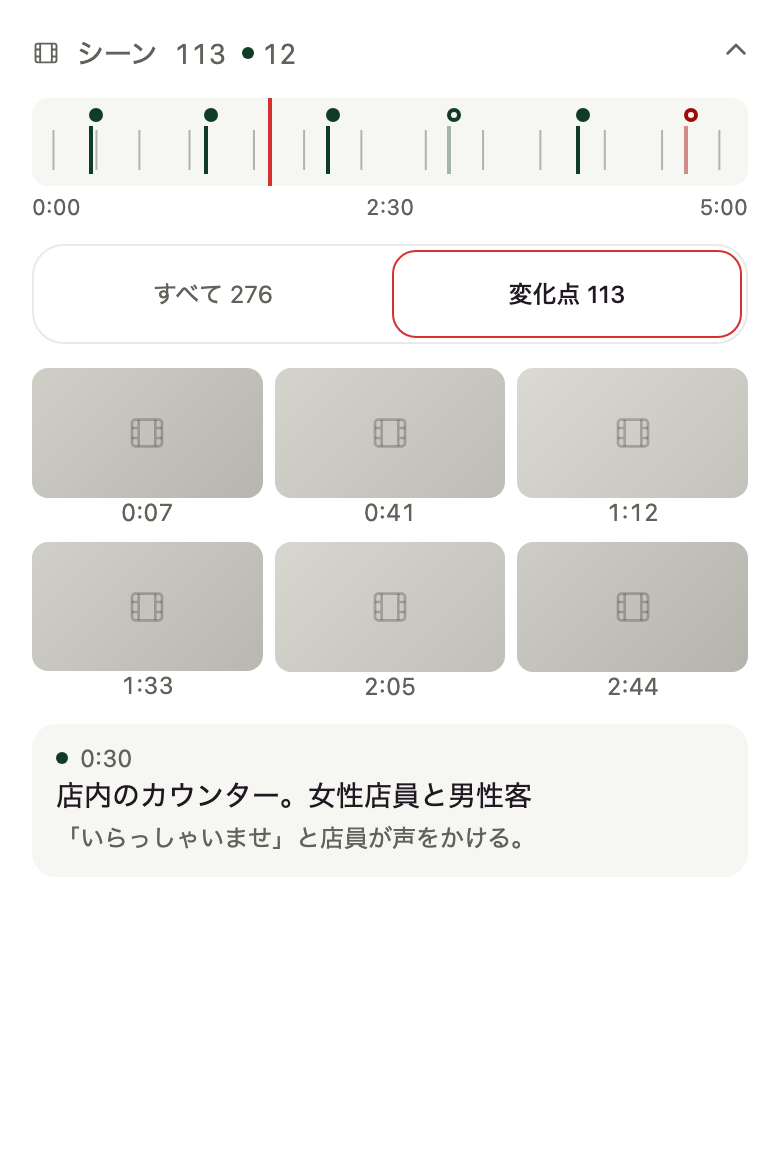
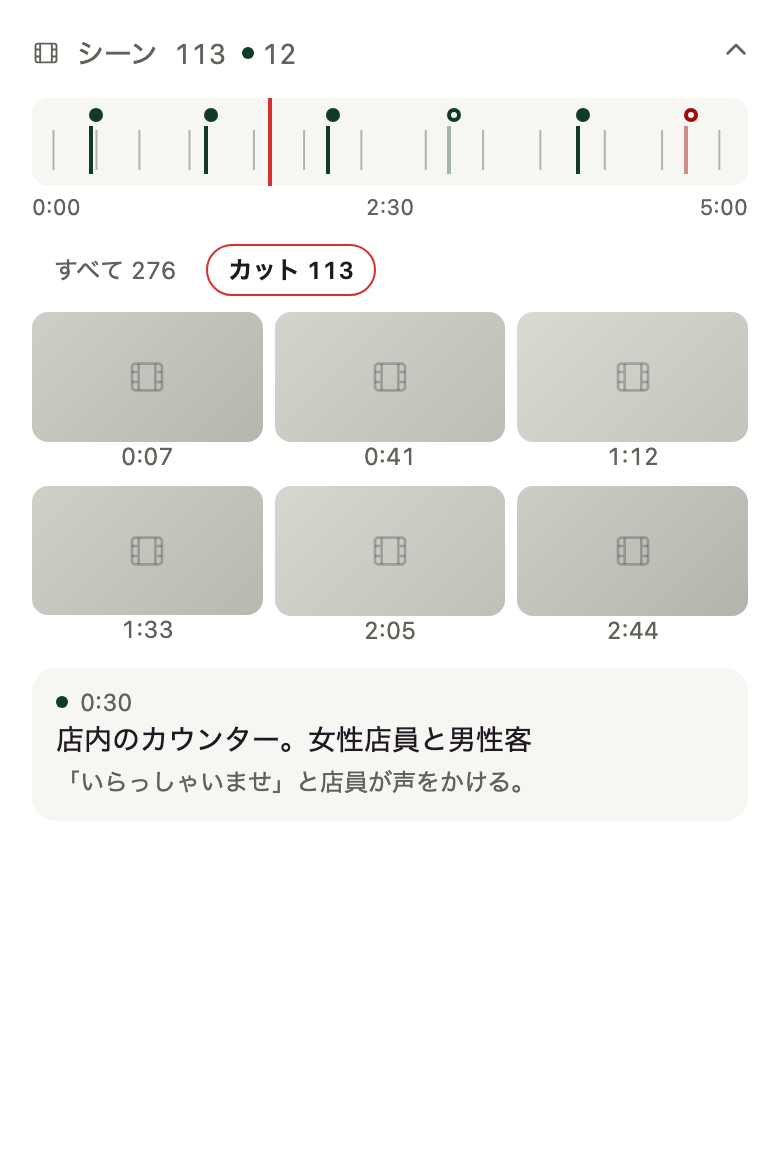
docs: redraw the Scenes frame switch as chips labelled Cuts

Changed region(s): [[0.0308, 0.2172, 0.9846, 0.7448]]

diff --git a/docs/process/reviews/feature-scenes-change-points/design/Section400Changes.dc.html b/docs/process/reviews/feature-scenes-change-points/design/Section400Changes.dc.html
@@ -2,7 +2,7 @@
 <html lang="ja">
 <head>
 <meta charset="utf-8">
-<title>Scenes — 変化点（400 px、変化点 113）</title>
+<title>Scenes — カット（400 px、カット 113）</title>
 <style>body{margin:0}</style>
 </head>
 <body>
@@ -40,9 +40,9 @@
   </div>
   <div style="display:flex;justify-content:space-between;font-size:11px;color:#62625b;font-variant-numeric:tabular-nums;margin-bottom:12px"><span>0:00</span><span>2:30</span><span>5:00</span></div>
 
-  <div role="group" aria-label="表示するフレーム" style="display:flex;width:100%;gap:2px;border:1px solid rgba(145,145,140,0.2);border-radius:16px;padding:2px;box-sizing:border-box;margin-bottom:14px">
-    <button style="flex:1;min-width:0;height:32px;border-radius:12px;border:1px solid transparent;background:transparent;color:#62625b;font-size:12px;font-family:inherit;display:flex;align-items:center;justify-content:center"><span style="overflow:hidden;text-overflow:ellipsis;white-space:nowrap">すべて 276</span></button>
-    <button style="flex:1;min-width:0;height:32px;border-radius:12px;border:1px solid #d63031;background:transparent;color:#211922;font-size:12px;font-weight:500;font-family:inherit;display:flex;align-items:center;justify-content:center"><span style="overflow:hidden;text-overflow:ellipsis;white-space:nowrap">変化点 113</span></button>
+  <div role="group" aria-label="表示するフレーム" style="display:flex;gap:4px;margin-bottom:10px">
+    <button aria-pressed="false" style="border-radius:9999px;padding:4px 10px;background:transparent;font-size:12px;line-height:16px;font-family:inherit;white-space:nowrap;font-variant-numeric:tabular-nums;border:1px solid transparent;color:#62625b">すべて 276</button>
+    <button aria-pressed="true" style="border-radius:9999px;padding:4px 10px;background:transparent;font-size:12px;line-height:16px;font-family:inherit;white-space:nowrap;font-variant-numeric:tabular-nums;border:1px solid #d63031;color:#211922;font-weight:600">カット 113</button>
   </div>
 
   <div style="display:grid;grid-template-columns:repeat(3,minmax(0,1fr));gap:8px 8px">

diff --git a/docs/process/reviews/feature-scenes-change-points/design/Phone390Changes.dc.html b/docs/process/reviews/feature-scenes-change-points/design/Phone390Changes.dc.html
@@ -2,7 +2,7 @@
 <html lang="ja">
 <head>
 <meta charset="utf-8">
-<title>Scenes — 変化点（358 px、電話）</title>
+<title>Scenes — カット（358 px、電話）</title>
 <style>body{margin:0}</style>
 </head>
 <body>
@@ -40,9 +40,9 @@
   </div>
   <div style="display:flex;justify-content:space-between;font-size:11px;color:#62625b;font-variant-numeric:tabular-nums;margin-bottom:12px"><span>0:00</span><span>2:30</span><span>5:00</span></div>
 
-  <div role="group" aria-label="表示するフレーム" style="display:flex;width:100%;gap:2px;border:1px solid rgba(145,145,140,0.2);border-radius:16px;padding:2px;box-sizing:border-box;margin-bottom:12px">
-    <button style="flex:1;min-width:0;height:44px;border-radius:12px;border:1px solid transparent;background:transparent;color:#62625b;font-size:12px;font-family:inherit;display:flex;align-items:center;justify-content:center"><span style="overflow:hidden;text-overflow:ellipsis;white-space:nowrap">すべて 276</span></button>
-    <button style="flex:1;min-width:0;height:44px;border-radius:12px;border:1px solid #d63031;background:transparent;color:#211922;font-size:12px;font-weight:500;font-family:inherit;display:flex;align-items:center;justify-content:center"><span style="overflow:hidden;text-overflow:ellipsis;white-space:nowrap">変化点 113</span></button>
+  <div role="group" aria-label="表示するフレーム" style="display:flex;gap:4px;margin-bottom:8px">
+    <button aria-pressed="false" style="border-radius:9999px;padding:4px 10px;background:transparent;font-size:12px;line-height:16px;font-family:inherit;white-space:nowrap;font-variant-numeric:tabular-nums;border:1px solid transparent;color:#62625b">すべて 276</button>
+    <button aria-pressed="true" style="border-radius:9999px;padding:4px 10px;background:transparent;font-size:12px;line-height:16px;font-family:inherit;white-space:nowrap;font-variant-numeric:tabular-nums;border:1px solid #d63031;color:#211922;font-weight:600">カット 113</button>
   </div>
 
   <div style="display:grid;grid-template-columns:repeat(3,minmax(0,1fr));gap:8px 6px">

diff --git a/docs/process/reviews/feature-scenes-change-points/design/Section400All.dc.html b/docs/process/reviews/feature-scenes-change-points/design/Section400All.dc.html
@@ -40,9 +40,9 @@
   </div>
   <div style="display:flex;justify-content:space-between;font-size:11px;color:#62625b;font-variant-numeric:tabular-nums;margin-bottom:12px"><span>0:00</span><span>2:30</span><span>5:00</span></div>
 
-  <div role="group" aria-label="表示するフレーム" style="display:flex;width:100%;gap:2px;border:1px solid rgba(145,145,140,0.2);border-radius:16px;padding:2px;box-sizing:border-box;margin-bottom:14px">
-    <button style="flex:1;min-width:0;height:32px;border-radius:12px;border:1px solid #d63031;background:transparent;color:#211922;font-size:12px;font-weight:500;font-family:inherit;display:flex;align-items:center;justify-content:center"><span style="overflow:hidden;text-overflow:ellipsis;white-space:nowrap">すべて 276</span></button>
-    <button style="flex:1;min-width:0;height:32px;border-radius:12px;border:1px solid transparent;background:transparent;color:#62625b;font-size:12px;font-family:inherit;display:flex;align-items:center;justify-content:center"><span style="overflow:hidden;text-overflow:ellipsis;white-space:nowrap">変化点 113</span></button>
+  <div role="group" aria-label="表示するフレーム" style="display:flex;gap:4px;margin-bottom:10px">
+    <button aria-pressed="true" style="border-radius:9999px;padding:4px 10px;background:transparent;font-size:12px;line-height:16px;font-family:inherit;white-space:nowrap;font-variant-numeric:tabular-nums;border:1px solid #d63031;color:#211922;font-weight:600">すべて 276</button>
+    <button aria-pressed="false" style="border-radius:9999px;padding:4px 10px;background:transparent;font-size:12px;line-height:16px;font-family:inherit;white-space:nowrap;font-variant-numeric:tabular-nums;border:1px solid transparent;color:#62625b">カット 113</button>
   </div>
 
   <div style="display:grid;grid-template-columns:repeat(3,minmax(0,1fr));gap:8px 8px">

diff --git a/docs/process/reviews/feature-scenes-change-points/design/Section400NoChanges.dc.html b/docs/process/reviews/feature-scenes-change-points/design/Section400NoChanges.dc.html
@@ -2,7 +2,7 @@
 <html lang="ja">
 <head>
 <meta charset="utf-8">
-<title>Scenes — 変化点なし（400 px、スイッチなし）</title>
+<title>Scenes — カットなし（400 px、スイッチなし）</title>
 <style>body{margin:0}</style>
 </head>
 <body>

diff --git a/docs/specs/scenes-change-points.md b/docs/specs/scenes-change-points.md
@@ -18,7 +18,7 @@ change, as `clip_change` embeddings. The Scenes section never shows them: its gr
 the CLIP candidate frames (ffmpeg scene detection plus the 30 s interval fill), so a cut
 is mixed in with filler frames and cannot be picked out.
 
-This adds a two-option switch above the grid, 「すべて」 / 「変化点」, which swaps the
+This adds a two-option switch above the grid, 「すべて」 / 「カット」, which swaps the
 grid between the candidate frames and the stored change frames. It needs no model and no
 Visual Index run, so it works as soon as the video has been scanned — before any scene
 is labelled.
@@ -32,13 +32,12 @@ is labelled.
    native video's availability, and again on every expand and every host show. The
    answer now carries both lists: `timestamps` (candidate frames) and `changes` (change
    frames).
-3. When `changes` holds at least one item, the section draws a full-width
-   `SegmentedControl` between the ruler and the grid, with 「すべて {n}」 and
-   「変化点 {m}」, 「すべて」 selected.
+3. When `changes` holds at least one item, the section draws a row of two chips between
+   the ruler and the grid, 「すべて {n}」 and 「カット {m}」, with 「すべて」 selected.
 4. The grid, the ruler's tick marks and the picture window show the selected list. The
    scene marks, the scene card, the track length, the playhead and seeking are
    unchanged.
-5. Pressing the other segment swaps the list in place. The browse point and the playback
+5. Pressing the other chip swaps the list in place. The browse point and the playback
    position are kept, so the window re-anchors to the row of the new list at or before
    that point. No `clip-timestamps` or `visual-index` request is sent; the tiles of the
    new window ask for their pictures as any tile does.
@@ -49,7 +48,7 @@ is labelled.
 ### 2. Failure cases
 
 - `changes` is empty or absent: no switch is drawn, the grid shows the candidate frames,
-  and a retained 「変化点」 selection falls back to 「すべて」.
+  and a retained 「カット」 selection falls back to 「すべて」.
 - The `clip-timestamps` request fails, or `timestamps` is empty: unchanged from today —
   the section reports nothing, is not drawn, and its host button is unavailable. The
   switch never makes the section available on its own, so a file with change frames and
@@ -67,16 +66,16 @@ is labelled.
 | State | What is drawn |
 |---|---|
 | No change frames | No switch; grid, ruler ticks and window = candidate frames |
-| Switch, 「すべて」 selected | Grid, ruler ticks and window = candidate frames; 「変化点」 unselected |
-| Switch, 「変化点」 selected | Grid, ruler ticks and window = change frames; 「すべて」 unselected |
+| Switch, 「すべて」 selected | Grid, ruler ticks and window = candidate frames; 「カット」 unselected |
+| Switch, 「カット」 selected | Grid, ruler ticks and window = change frames; 「すべて」 unselected |
 | Section collapsed, then expanded | The mode is kept when the new answer still has changes; otherwise 「すべて」 |
 | Host hides and shows the panel | Same as expand: kept while the new answer still has changes, otherwise 「すべて」 |
 | File changed | The mode returns to 「すべて」 |
 | Request in flight | No switch (no answer yet); the loading skeleton as today |
-| Response without changes while 「変化点」 is selected | No switch; grid = candidate frames; the selection is reset to 「すべて」 |
-| Available through the Visual Index with `m > 0` and no candidate frames | The switch is drawn; 「すべて」 shows no tiles and 「変化点」 shows the cuts |
+| Response without changes while 「カット」 is selected | No switch; grid = candidate frames; the selection is reset to 「すべて」 |
+| Available through the Visual Index with `m > 0` and no candidate frames | The switch is drawn; 「すべて」 shows no tiles and 「カット」 shows the cuts |
 
-Allowed transitions: a segment press, collapse/expand, host hide/show, a file change, and
+Allowed transitions: a chip press, collapse/expand, host hide/show, a file change, and
 a response arriving. Not allowed: a mode without a response, and a switch on a section
 that is not drawn at all (no candidates and no Visual Index).
 
@@ -86,7 +85,7 @@ that is not drawn at all (no candidates and no Visual Index).
   `vector_table = 'vec_clip_change'` for the file, ascending by `timestamp_start`,
   through the existing `clip-timestamps` route. No new route and no new request.
 - Read: `indexed_files`, as the route already does for the drive check.
-- Read/write: the frame cache. Selecting 「変化点」 draws tiles whose times were never
+- Read/write: the frame cache. Selecting 「カット」 draws tiles whose times were never
   requested as candidate tiles, so the new window's tiles ask
   `GET /files/{file_id}/frame?t=<start>` (a `.loft`: `/scene-tile`), and a native video's
   miss extracts with ffmpeg and writes `intelligence_data_dir/frames/{file_id}/{ms}.webp`.
@@ -129,11 +128,16 @@ mismatch). The added field needs no check of its own.
 
 ### 9. User-visible behavior
 
-- The switch is the core `SegmentedControl` from `@/components/SegmentedControl`, full
-  width, placed directly below the ruler and above the grid. Its selected segment has an
-  accent border and no fill; the other is muted; labels truncate rather than wrap.
-- Segment labels: 「すべて {n}」 / 「変化点 {m}」 (ja), "All {n}" / "Scene changes {m}"
-  (en). English pluralises through ICU `plural` ("1 scene change").
+- The switch is a left-aligned row of two chips, placed directly below the ruler and
+  above the grid, inside a `role="group"`. Each chip is a `button` with `aria-pressed`,
+  drawn as DESIGN.md's kind chips (§Find in file): `rounded-full border px-2.5 py-1
+  text-xs`, the selected one `border-accent font-semibold text-text-primary`, the other
+  `border-transparent text-text-muted`. Each chip is as wide as its label, 4 px apart,
+  with no outline around the pair, and keeps this size on a coarse pointer as the Find
+  tab's chips do.
+- Chip labels: 「すべて {n}」 / 「カット {m}」 (ja), "All {n}" / "Cuts {m}" (en). The
+  number follows the noun as a count, as on the Find tab's chips, so no plural form is
+  needed.
 - `n` and `m` are the lengths of `timestamps` and `changes` in the response.
 - The switch is drawn only when `m > 0`.
 - Tiles are the selected list, ascending by `start`, in the same grid geometry as today;
@@ -158,7 +162,7 @@ mismatch). The added field needs no check of its own.
 
 - The change list is at most the stored change frames, which the scan already caps at
   `indexing.frame_extraction.max_frames` (500) and spreads over the video.
-- Switching to 「変化点」 requests the pictures of the window's tiles, up to `R × c` per
+- Switching to 「カット」 requests the pictures of the window's tiles, up to `R × c` per
   window, each once per file and again after the frame cache is purged; the browser's
   connection limit bounds concurrency. No prefetch beyond the window.
 - The list size is bounded by the same cap as the candidate list, so the window, ruler
@@ -184,7 +188,7 @@ mismatch). The added field needs no check of its own.
 - `addons/intelligence/frontend/ScenesSection/scenesModel.ts` — the helper that picks
   the list for a mode.
 - `addons/intelligence/frontend/messages/ja.json`, `messages/en.json` — three
-  `file`-namespace keys: the two segment labels and the group's accessible name.
+  `file`-namespace keys: the two chip labels and the group's accessible name.
 - `addons/intelligence/frontend/ScenesSection/__tests__/` — the switch and its states.
 - `addons/intelligence/tests/` — the route returns both lists, the change list holds
   exactly the `clip_change` rows, and `timestamps` is unchanged.
@@ -196,9 +200,9 @@ mismatch). The added field needs no check of its own.
 - `frontend/e2e-components/fixtures/app.tsx` — two arrangements,
   `scenes-changes-384` and `scenes-changes-390`, registered beside the existing `scenes-*`
   ones.
-- `frontend/e2e-components/scenes-section.cases.ts` — the new case, and its `card()`
-  helper narrowed so it does not match a `SegmentedControl` segment (both are
-  `rounded-xl` buttons).
+- `frontend/e2e-components/scenes-section.cases.ts` — the new case. Its `card()`
+  helper reads the first `button.rounded-xl`; the chips are `rounded-full`, so it still
+  finds the scene card.
 - `frontend/e2e-components/scenes-section-desktop.spec.ts` (mouse, 384 px) and
   `scenes-section.spec.ts` (touch, 390 px) — they call the case functions, so both must
   run the new one.
@@ -226,18 +230,19 @@ sheet. Its checkable decisions:
 
 - D1. At 384 px, top to bottom: title row, ruler track with its time labels, switch row,
   grid, scene card.
-- D2. The switch row spans the section's content width (352 px in the board, which pads
-  the 384 px box by 16 px) and the grid's first row follows it directly.
-- D3. Two segments of equal width, 「すべて 276」 then 「変化点 113」, in an outlined
-  group; the selected segment carries an accent border and no fill.
+- D2. The switch row is left-aligned and only as wide as its two chips; the grid's first
+  row follows it directly.
+- D3. Two pill chips, 「すべて 276」 then 「カット 113」, each as wide as its label, with no
+  outline around the pair; the selected chip carries an accent border and no fill, the
+  other no border and muted text.
 - D4. The grid is three columns of 16:9 tiles: 112 px in the padded board, and whatever
   the section's own width gives in the e2e arrangement (`ScenesSectionArrangement` draws
   the section at 384/390 with no padding, so its tiles are wider). The column count, not
   the pixel width, is what the case checks.
-- D5. With 「変化点」 selected the ruler's ticks thin out and the grid shows cut frames;
+- D5. With 「カット」 selected the ruler's ticks thin out and the grid shows cut frames;
   the card, the ruler's scene marks and the playhead stay where they were.
-- D6. The 390 px board shows the same order with both segments on one line at the
-  coarse-pointer height; it draws the section's own title row, which the phone sheet's
+- D6. The 390 px board shows the same order with both chips on one line at the same chip
+  height as at 384 px; it draws the section's own title row, which the phone sheet's
   host supplies in the app.
 - D7. With no change frames, no switch row is drawn.
 
@@ -246,11 +251,11 @@ sheet. Its checkable decisions:
 I1. The switch is drawn only when the response carries at least one change timestamp;
 otherwise the section draws no switch and the grid is the candidate list.
 
-I2. With 「変化点」 selected, every drawn tile's time is a change `start` and the drawn
+I2. With 「カット」 selected, every drawn tile's time is a change `start` and the drawn
 tiles are a consecutive window of that list in time order; the 「すべて」 window is
 SPEC-ADDON-089 I1's, unchanged.
 
-I3. A segment press sends no `clip-timestamps` and no `visual-index` request and writes
+I3. A chip press sends no `clip-timestamps` and no `visual-index` request and writes
 no search-database row; the only requests it causes are the picture requests of the
 newly drawn tiles.
 
@@ -260,7 +265,7 @@ the track length is the same in both; and the ruler keys keep their mapping (one
 press, the list's ends at `Home`/`End`, `Enter` seeks the browse point) over the shown
 list.
 
-I5. The two segment counts equal the two lists' lengths in the response, and the header's
+I5. The two chip counts equal the two lists' lengths in the response, and the header's
 bare number (when the section draws it) equals the drawn list's length.
 
 I6. `clip-timestamps` returns `changes` as exactly the file's `clip_change` rows with
@@ -273,14 +278,14 @@ while the re-fetched answer still has changes.
 
 I8. Every new message key exists in both locale files, and no key renders as its path.
 
-I9. With the switch drawn, its row spans the section's content width, the grid keeps the
-column count it has without the switch, no element overflows the section, and a press
+I9. With the switch drawn, both chips sit on one line inside the section's content width,
+the grid keeps the column count it has without the switch, no element overflows the section, and a press
 changes neither the section's height nor the ruler's `aria-valuemax`.
 
 ## Revises
 
 SPEC-ADDON-089 I1. The ruler draws exactly one tick per row of the list the section is
-showing (the candidate rows, or the change rows when 「変化点」 is selected), at
+showing (the candidate rows, or the change rows when 「カット」 is selected), at
 `min(start, L) / L` of its width, where `L` is the player's duration when that is a
 finite positive number at least as large as the candidate list's last start, and
 otherwise that last start plus the median gap between candidate frames (one candidate:
@@ -307,7 +312,7 @@ and never its `transcript_excerpt`. Activating the card seeks to that scene's se
 SPEC-ADDON-111 I1. Scene search, tag kNN, scene segments, similar files, concept tagging
 and the Scenes grid **in its default 「すべて」 mode** return the same results for a file
 before and after its frame scan; the change frames are additionally listed by the
-Scenes section's 「変化点」 selection and remain in the Visual Index's pool, and no
+Scenes section's 「カット」 selection and remain in the Visual Index's pool, and no
 change-frame vector is ever in `vec_clip`.
 
 SPEC-ADDON-104 I3. From top to bottom the section draws its header (when drawn), the
@@ -333,7 +338,7 @@ with the gaps they have today. Nothing is placed between the grid and the card.
 - Pre-caching the change frames' pictures at scan time so the first switch is instant:
   a write-amplifying change to the worker, and the on-demand extraction matches how
   every other tile gets its picture.
-- Adding a keyboard shortcut for the switch: Tab reaches both segments, and the ruler's
+- Adding a keyboard shortcut for the switch: Tab reaches both chips, and the ruler's
   key map is the section's documented one.
 - Remembering the choice across files or across mounts: a per-file view, starting at
   「すべて」 each time the section mounts.
@@ -342,3 +347,13 @@ with the gaps they have today. Nothing is placed between the grid and the card.
   both modes, so it is not a wrong tile.
 - Changing the existing e2e datasets to carry `changes`: the current cases stay the
   no-switch case, and a separate dataset draws the switch.
+- The full-width `SegmentedControl`: it gives a filter of the grid the weight of the
+  ruler and the grid, and its accent border sits beside the red playhead. The chips are
+  the same selected-state rule at the size of the Find tab's filters.
+- Extracting the Find tab's chip into a shared core component: the addon draws the same
+  classes itself, so the change stays inside the addon. A third caller is the point to
+  extract it.
+- Labels other than 「カット」 / "Cuts": 「変化点」 and "Changes" do not say what changed;
+  「シーン」 / "Scenes" collides with the Visual Index's scenes; 「ショット」 is less
+  familiar; 「場面転換」 is long for a chip. The list also holds large camera moves and
+  fades, not only hard cuts, which 「カット」 accepts as the reader's notion of a cut.
